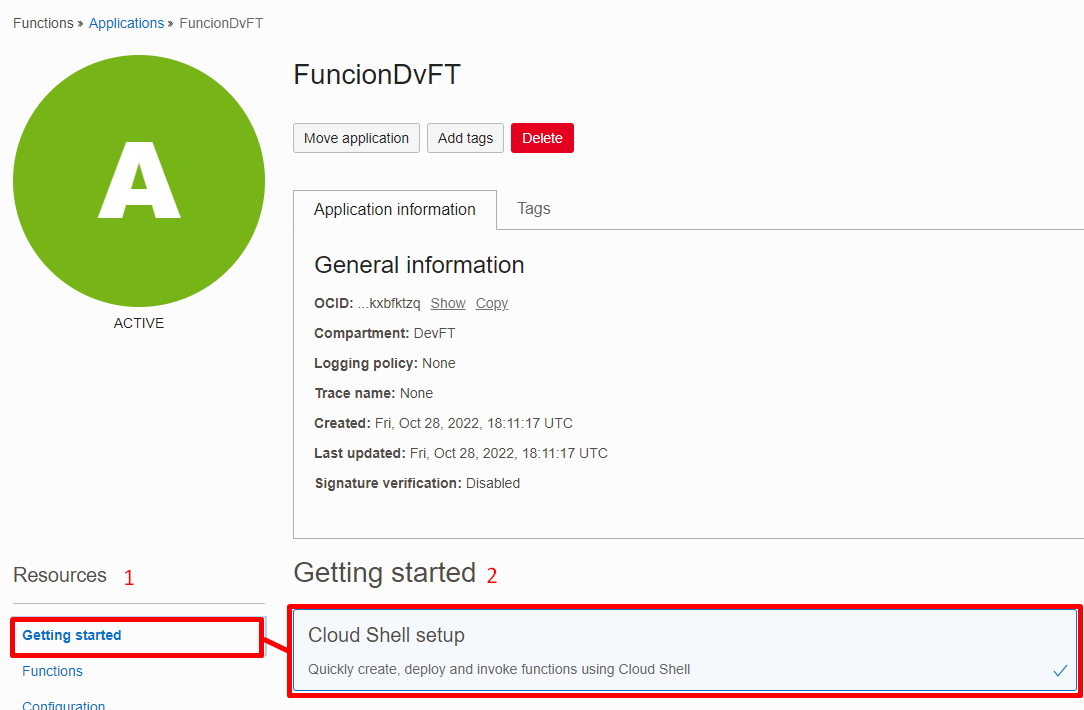
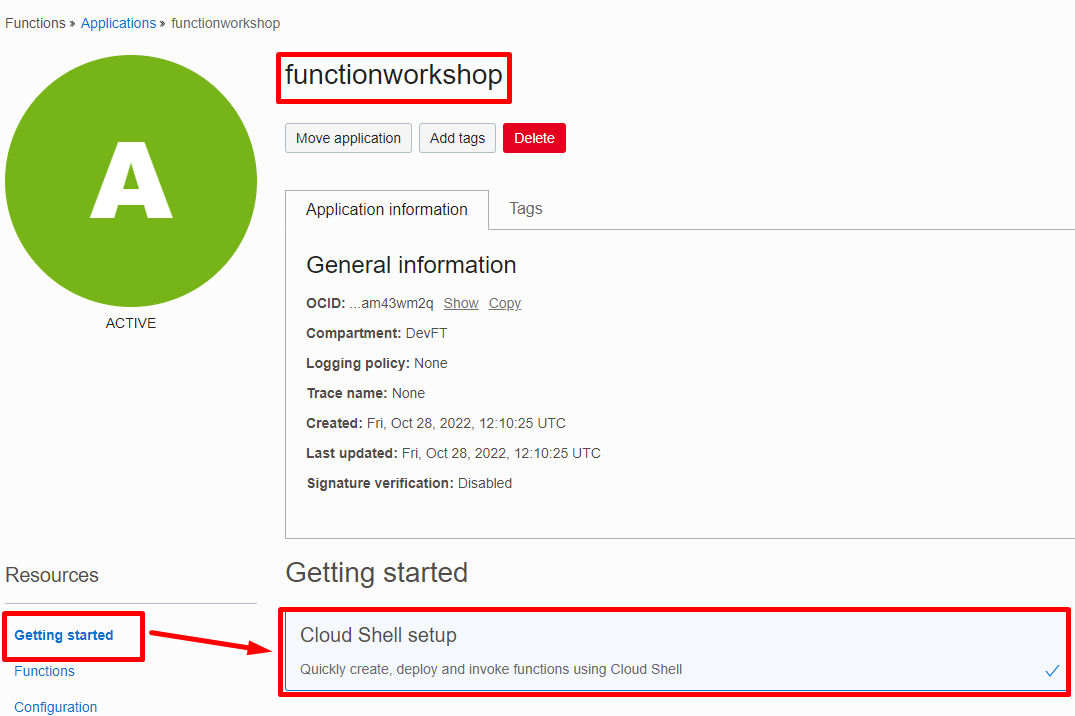
cambios

diff --git a/Lab 3/Lab_2_Funciones/README.html b/Lab 3/Lab_2_Funciones/README.html
@@ -14,12 +14,11 @@
     <h3>&#128161;Tips &#9729;</h3>
     <ul>
         <li>Para este laboratorio es necesario que hayas ejecutado los laboratorios 1 y 2</li>
-        <li>Tener a la mano estos datos que recopilaste en el lab2 	
-            &#10145; username (oracleidentitycloudservice/tucorreo@correo.com) y el token de autorización (auth token) </li>
+        <li>Tener a la mano los datos que recopilaste en el lab2</li>
     </ul>
     
 </p>
-<h2>Creando una aplicación en funciones</h2>
+<h2>¿Cómo crear una función?</h2>
 <br>
 <ol>
     <li>Abre el menú &#127828; y ve a la siguiente ruta: Developer Services &#10145; Functions &#10145; Applications
@@ -37,12 +36,25 @@
         <br>
         <img src="/Lab 3/images/Screenshot_3.png" alt="img3">
     </li>
-    <h2>Configurando ambiente de Cloud Shell</h2>
-    <h3>Para este paso, seleccionamos la función para ver sus detalles y nos ubicamos en la sección <b>Getting Started</b>. Recuerda que la ruta es Developer Services &#10145; Functions &#10145; Applications &#10145; FuncionDvFT</h3>
+</ol>
     <br>
-        <img src="/Lab 3/images/Screenshot_4.png" alt="img4">
+<ol>
+    <h2>Configurando ambiente de Cloud Shell</h2>
+    <p>Para este lab, usaremos la función ya creada llamada <b>functionworkshop</b> que se encuentra dentro del compartimiento DevFT. Recuerda que la ruta es Developer Services &#10145; Functions &#10145; Applications &#10145; functionworkshop</p>
         <br>
+        <img src="/Lab 3/images/image13.png" alt="img13">
+        <br>    
+    <li>
+        <p>Seleccionamos la función para ver sus detalles y nos ubicamos en la sección <b>Getting Started</b></p>
+        <br>
+            <img src="/Lab 3/images/Screenshot_4.png" alt="img4">
+        <br>
+
+    </li>
+    <br>
+    <br>
     <li>Selecciona la opción de <b>Configuración de Cloud Shell</b>
+        <br>
         <img src="/Lab 3/images/Screenshot_5.png" alt="img5">
     </li>
     <br>
@@ -55,9 +67,66 @@
         <img src="/Lab 3/images/Screenshot_6.png" alt="img6">
     </li>
     <br>
-    <li>Clic en <b>Launch Cloud Shell</b>
+    <h3>Setup fn on Cloud Shell</h3>
+    <br>
+    <li>Ejecuta los pasos 1 y 2 copiando los códigos en el Cloud Shell
         <br>
-        <img src="/Lab 3/images/Screenshot_6.png" alt="img6">
+        <img src="/Lab 3/images/Screenshot_7.png" alt="img7">
+        <br>
+    </li>
+    <br>
+    <li>Agrega un repository name prefix único para distinguirte de los repositorios de otros usuarios &#10145; fn update context registry iad.ocir.io/idambthrb5ko/<b>[repo-name-prefix]</b>
+        <br>
+        <br>
+        Te debe salir este mensaje &#128071;
+        <br>
+        <br>
+        <img src="/Lab 3/images/Screenshot_8.png" alt="img8">
+        <br>
+    </li>
+    <br>
+    <li>Para el paso 5, puedes usar tu token generado en el lab#2 o generar uno nuevo. Copia el código y ejecuta el paso 6
+        <br>
+        <br>
+        <img src="/Lab 3/images/Screenshot_9.png" alt="img9">
+        <br>
+        <h4>Resultado  &#128071</h4>
+        <img src="/Lab 3/images/Screenshot_10.png" alt="img10">
+        <br>
+    </li>
+    <br>
+    <li>Copia el código y ejecuta el paso 7
+        <br>
+        <br>
+        <img src="/Lab 3/images/Screenshot_11.png" alt="img11">
+        <br>
+        <h4>Resultado  &#128071</h4>
+        <img src="/Lab 3/images/Screenshot_12.png" alt="img12">
+        <br>
+    </li>
+    <h2>Crear, desplegar e invocar la función </h2>
+    <li>Clona el repositorio que se va a usar en esta workshop &#10145; $ git clone https://github.com/gustavogaspar/events-function.git
+        <br>
+    </li>
+    <br>
+    <li>Entra a la carpeta del proyecto &#10145; $ cd events-function
+    </li>
+    <br>
+    <li>Copia el código del paso 10
+        <br>
+        <br>
+        <img src="/Lab 3/images/Screenshot_16.png" alt="img16">
+        <br>
+        <h4>El código tardará un poco en ejecutarse. Te debería quedar así &#128071</h4>
+        <img src="/Lab 3/images/Screenshot_17.png" alt="img17">
+        <br>
+    </li>
+    <br>
+    <li>Modifica el código del paso 11 para invocar a la función &#10145;  fn invoke functionworkshop final-workshop
+        <br>
+        <h4>Te debe devolver este mensaje &#128071</h4>
+        <img src="/Lab 3/images/Screenshot_18.png" alt="img18">
+        <br>
     </li>
 
 </ol>
